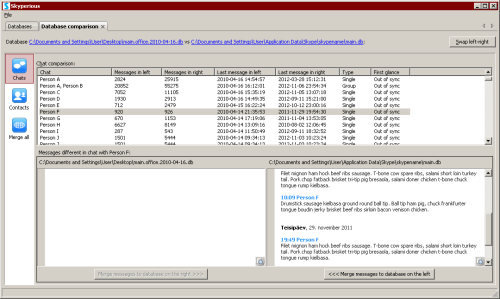
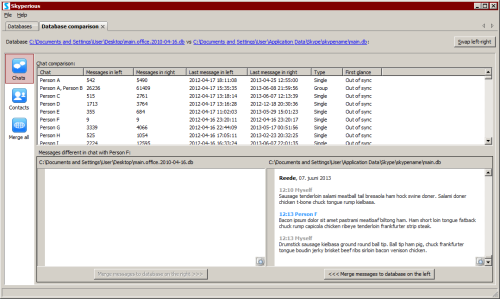
Updated changelog, links, texts and screen shots to v1.4.

diff --git a/index.html b/index.html
@@ -39,9 +39,9 @@
           <a href="https://github.com/suurjaak/Skyperious">View the Project on GitHub <small>suurjaak/Skyperious</small></a>
         </p>
         <ul>
-          <li><a href="http://erki.lap.ee/downloads/Skyperious/skyperious_1.3.2_setup.exe">Download <strong>Setup</strong></a></li>
-          <li><a href="http://erki.lap.ee/downloads/Skyperious/skyperious_1.3.2_x64_setup.exe">Download <strong>64bit Setup</strong></a></li>
-          <li><a href="http://erki.lap.ee/downloads/Skyperious/skyperious_1.3.2-src.zip">Download <strong>Source</strong></a></li>
+          <li><a href="http://erki.lap.ee/downloads/Skyperious/skyperious_1.4_setup.exe">Download <strong>Setup</strong></a></li>
+          <li><a href="http://erki.lap.ee/downloads/Skyperious/skyperious_1.4_x64_setup.exe">Download <strong>64bit Setup</strong></a></li>
+          <li><a href="http://erki.lap.ee/downloads/Skyperious/skyperious_1.4-src.zip">Download <strong>Source</strong></a></li>
         </ul>
       </header>
       <section>
@@ -51,7 +51,7 @@
 
 <ul>
 <li>search across all messages and contacts</li>
-<li>browse, filter and export chat histories, see chat statistics</li>
+<li>browse chat history and export as HTML, see chat statistics</li>
 <li>import contacts from a CSV file to your Skype contacts</li>
 <li>view any database table and and export their data</li>
 <li>change, add or delete data in any table</li>
@@ -74,28 +74,41 @@ automatically, or you can select files yourself.</p>
 its core functionality should work wherever Python and required Python
 packages are installed.</p>
 
-<h2>Dependencies</h2>
-
-<p>Skyperious has been built in Python 2.7, using these 3rd-party Python packages:</p>
-
-<ul>
-<li>wxPython 2.9 (<a href="http://wxpython.org/">http://wxpython.org/</a>)</li>
-<li>Python Imaging Library, required by wxPython
-(<a href="http://www.pythonware.com/products/pil/">http://www.pythonware.com/products/pil/</a>)</li>
-<li>BeautifulSoup 3.2.0, included in source package
-(<a href="http://www.crummy.com/software/BeautifulSoup">http://www.crummy.com/software/BeautifulSoup</a>)</li>
-<li>pywin32, not required if in source code form: used for launching/shutting down Skype
-(<a href="https://sourceforge.net/projects/pywin32/">https://sourceforge.net/projects/pywin32/</a>)</li>
-<li>pyinstaller 2.0 (<a href="http://www.pyinstaller.org/">http://www.pyinstaller.org/</a>)</li>
-</ul>
-
-<p>In source code form, Skyperious also runs under Python 2.6 and wxPython 2.8, but with some quirks.</p>
 
 <h2>Attribution</h2>
 
+Skyperious has been built using the following open-source software:
+<ul>
+<li>Python 2.7.5, <a href="http://www.python.org">www.python.org</a></li>
+<li>wxPython 2.9.4, <a href="http://wxpython.org">wxpython.org</a></li>
+<li>BeautifulSoup 3.2.1, <a href="http://crummy.com/software/BeautifulSoup">crummy.com/software/BeautifulSoup</a></li>
+<li>step, Simple Template Engine for Python, <a href="https://github.com/dotpy/step">github.com/dotpy/step</a></li>
+<li>dateutil, <a href="https://pypi.python.org/pypi/python-dateutil">pypi.python.org/pypi/python-dateutil</a></li>
+<li>Skype4Py, <a href="https://github.com/awahlig/skype4py">github.com/awahlig/skype4py</a></li>
+<li>PyInstaller 2.0, <a href="http://www.pyinstaller.org">www.pyinstaller.org</a></li>
+</ul>
+
 <p>Default avatar icon from:
-  Fancy Avatars, (c) 2009 Brandon Mathis,
+  Fancy Avatars, &copy; 2009 Brandon Mathis,
   <a href="http://brandonmathis.com/projects/fancy-avatars/">http://brandonmathis.com/projects/fancy-avatars/</a></p>
+
+<p>Several toolbar icons from:
+  Fugue Icons, &copy; 2010 Yusuke Kamiyamane,
+  <a href="http://p.yusukekamiyamane.com/">http://p.yusukekamiyamane.com/</a></p>
+
+
+<h2>Dependencies</h2>
+
+<p>In source code form, Skyperious needs these 3rd-party Python packages:</p>
+
+<ul>
+<li>wxPython 2.9.4 (<a href="http://wxpython.org/">http://wxpython.org/</a>)</li>
+<li>dateutil, <a href="https://pypi.python.org/pypi/python-dateutil">pypi.python.org/pypi/python-dateutil</a></li>
+<li>Skype4Py, <a href="https://github.com/awahlig/skype4py">github.com/awahlig/skype4py</a></li>
+</ul>
+
+<p>Skyperious can also run under Python 2.6 and wxPython 2.8.</p>
+
 
 <h2>License</h2>
 

diff --git a/changelog.html b/changelog.html
@@ -39,14 +39,32 @@
           <a href="https://github.com/suurjaak/Skyperious">View the Project on GitHub <small>suurjaak/Skyperious</small></a>
         </p>
         <ul>
-          <li><a href="http://erki.lap.ee/downloads/Skyperious/skyperious_1.3.2_setup.exe">Download <strong>Setup</strong></a></li>
-          <li><a href="http://erki.lap.ee/downloads/Skyperious/skyperious_1.3.2_x64_setup.exe">Download <strong>64bit Setup</strong></a></li>
-          <li><a href="http://erki.lap.ee/downloads/Skyperious/skyperious_1.3.2-src.zip">Download <strong>Source</strong></a></li>
+          <li><a href="http://erki.lap.ee/downloads/Skyperious/skyperious_1.4_setup.exe">Download <strong>Setup</strong></a></li>
+          <li><a href="http://erki.lap.ee/downloads/Skyperious/skyperious_1.4_x64_setup.exe">Download <strong>64bit Setup</strong></a></li>
+          <li><a href="http://erki.lap.ee/downloads/Skyperious/skyperious_1.4-src.zip">Download <strong>Source</strong></a></li>
         </ul>
       </header>
 
       <section>
         <h2>Changelog</h2>
+
+        <h4>v1.4, 2013-06-09:</h4>
+        <ul>
+          <li>added statistics and word cloud to chat HTML exports;</li>
+          <li>added option to export selected chats only;</li>
+          <li>added calls to chat statistics;</li>
+          <li>added support for automatic updates;</li>
+          <li>added possibility to send feedback;</li>
+          <li>added option for automatic error reporting;</li>
+          <li>statistics for chat text collected from text messages only;</li>
+          <li>rearranged program menus;</li>
+          <li>started using templates for generating content;</li>
+          <li>updated license information for used and included software;</li>
+          <li>upgraded BeautifulSoup from 3.2.0 to 3.2.1;</li>
+          <li>updated 48x48 and 64x64 icons;</li>
+          <li>multiple minor fixes and re-factorings.</li>
+        </ul>
+        <br />
 
         <h4>v1.3.2, 2013-04-28:</h4>
         <ul>

diff --git a/downloads.html b/downloads.html
@@ -39,9 +39,9 @@
           <a href="https://github.com/suurjaak/Skyperious">View the Project on GitHub <small>suurjaak/Skyperious</small></a>
         </p>
         <ul>
-          <li><a href="http://erki.lap.ee/downloads/Skyperious/skyperious_1.3.2_setup.exe">Download <strong>Setup</strong></a></li>
-          <li><a href="http://erki.lap.ee/downloads/Skyperious/skyperious_1.3.2_x64_setup.exe">Download <strong>64bit Setup</strong></a></li>
-          <li><a href="http://erki.lap.ee/downloads/Skyperious/skyperious_1.3.2-src.zip">Download <strong>Source</strong></a></li>
+          <li><a href="http://erki.lap.ee/downloads/Skyperious/skyperious_1.4_setup.exe">Download <strong>Setup</strong></a></li>
+          <li><a href="http://erki.lap.ee/downloads/Skyperious/skyperious_1.4_x64_setup.exe">Download <strong>64bit Setup</strong></a></li>
+          <li><a href="http://erki.lap.ee/downloads/Skyperious/skyperious_1.4-src.zip">Download <strong>Source</strong></a></li>
         </ul>
       </header>
       <section>

diff --git a/screens.html b/screens.html
@@ -39,9 +39,9 @@
           <a href="https://github.com/suurjaak/Skyperious">View the Project on GitHub <small>suurjaak/Skyperious</small></a>
         </p>
         <ul>
-          <li><a href="http://erki.lap.ee/downloads/Skyperious/skyperious_1.3.2_setup.exe">Download <strong>Setup</strong></a></li>
-          <li><a href="http://erki.lap.ee/downloads/Skyperious/skyperious_1.3.2_x64_setup.exe">Download <strong>64bit Setup</strong></a></li>
-          <li><a href="http://erki.lap.ee/downloads/Skyperious/skyperious_1.3.2-src.zip">Download <strong>Source</strong></a></li>
+          <li><a href="http://erki.lap.ee/downloads/Skyperious/skyperious_1.4_setup.exe">Download <strong>Setup</strong></a></li>
+          <li><a href="http://erki.lap.ee/downloads/Skyperious/skyperious_1.4_x64_setup.exe">Download <strong>64bit Setup</strong></a></li>
+          <li><a href="http://erki.lap.ee/downloads/Skyperious/skyperious_1.4-src.zip">Download <strong>Source</strong></a></li>
         </ul>
       </header>
       <section>
